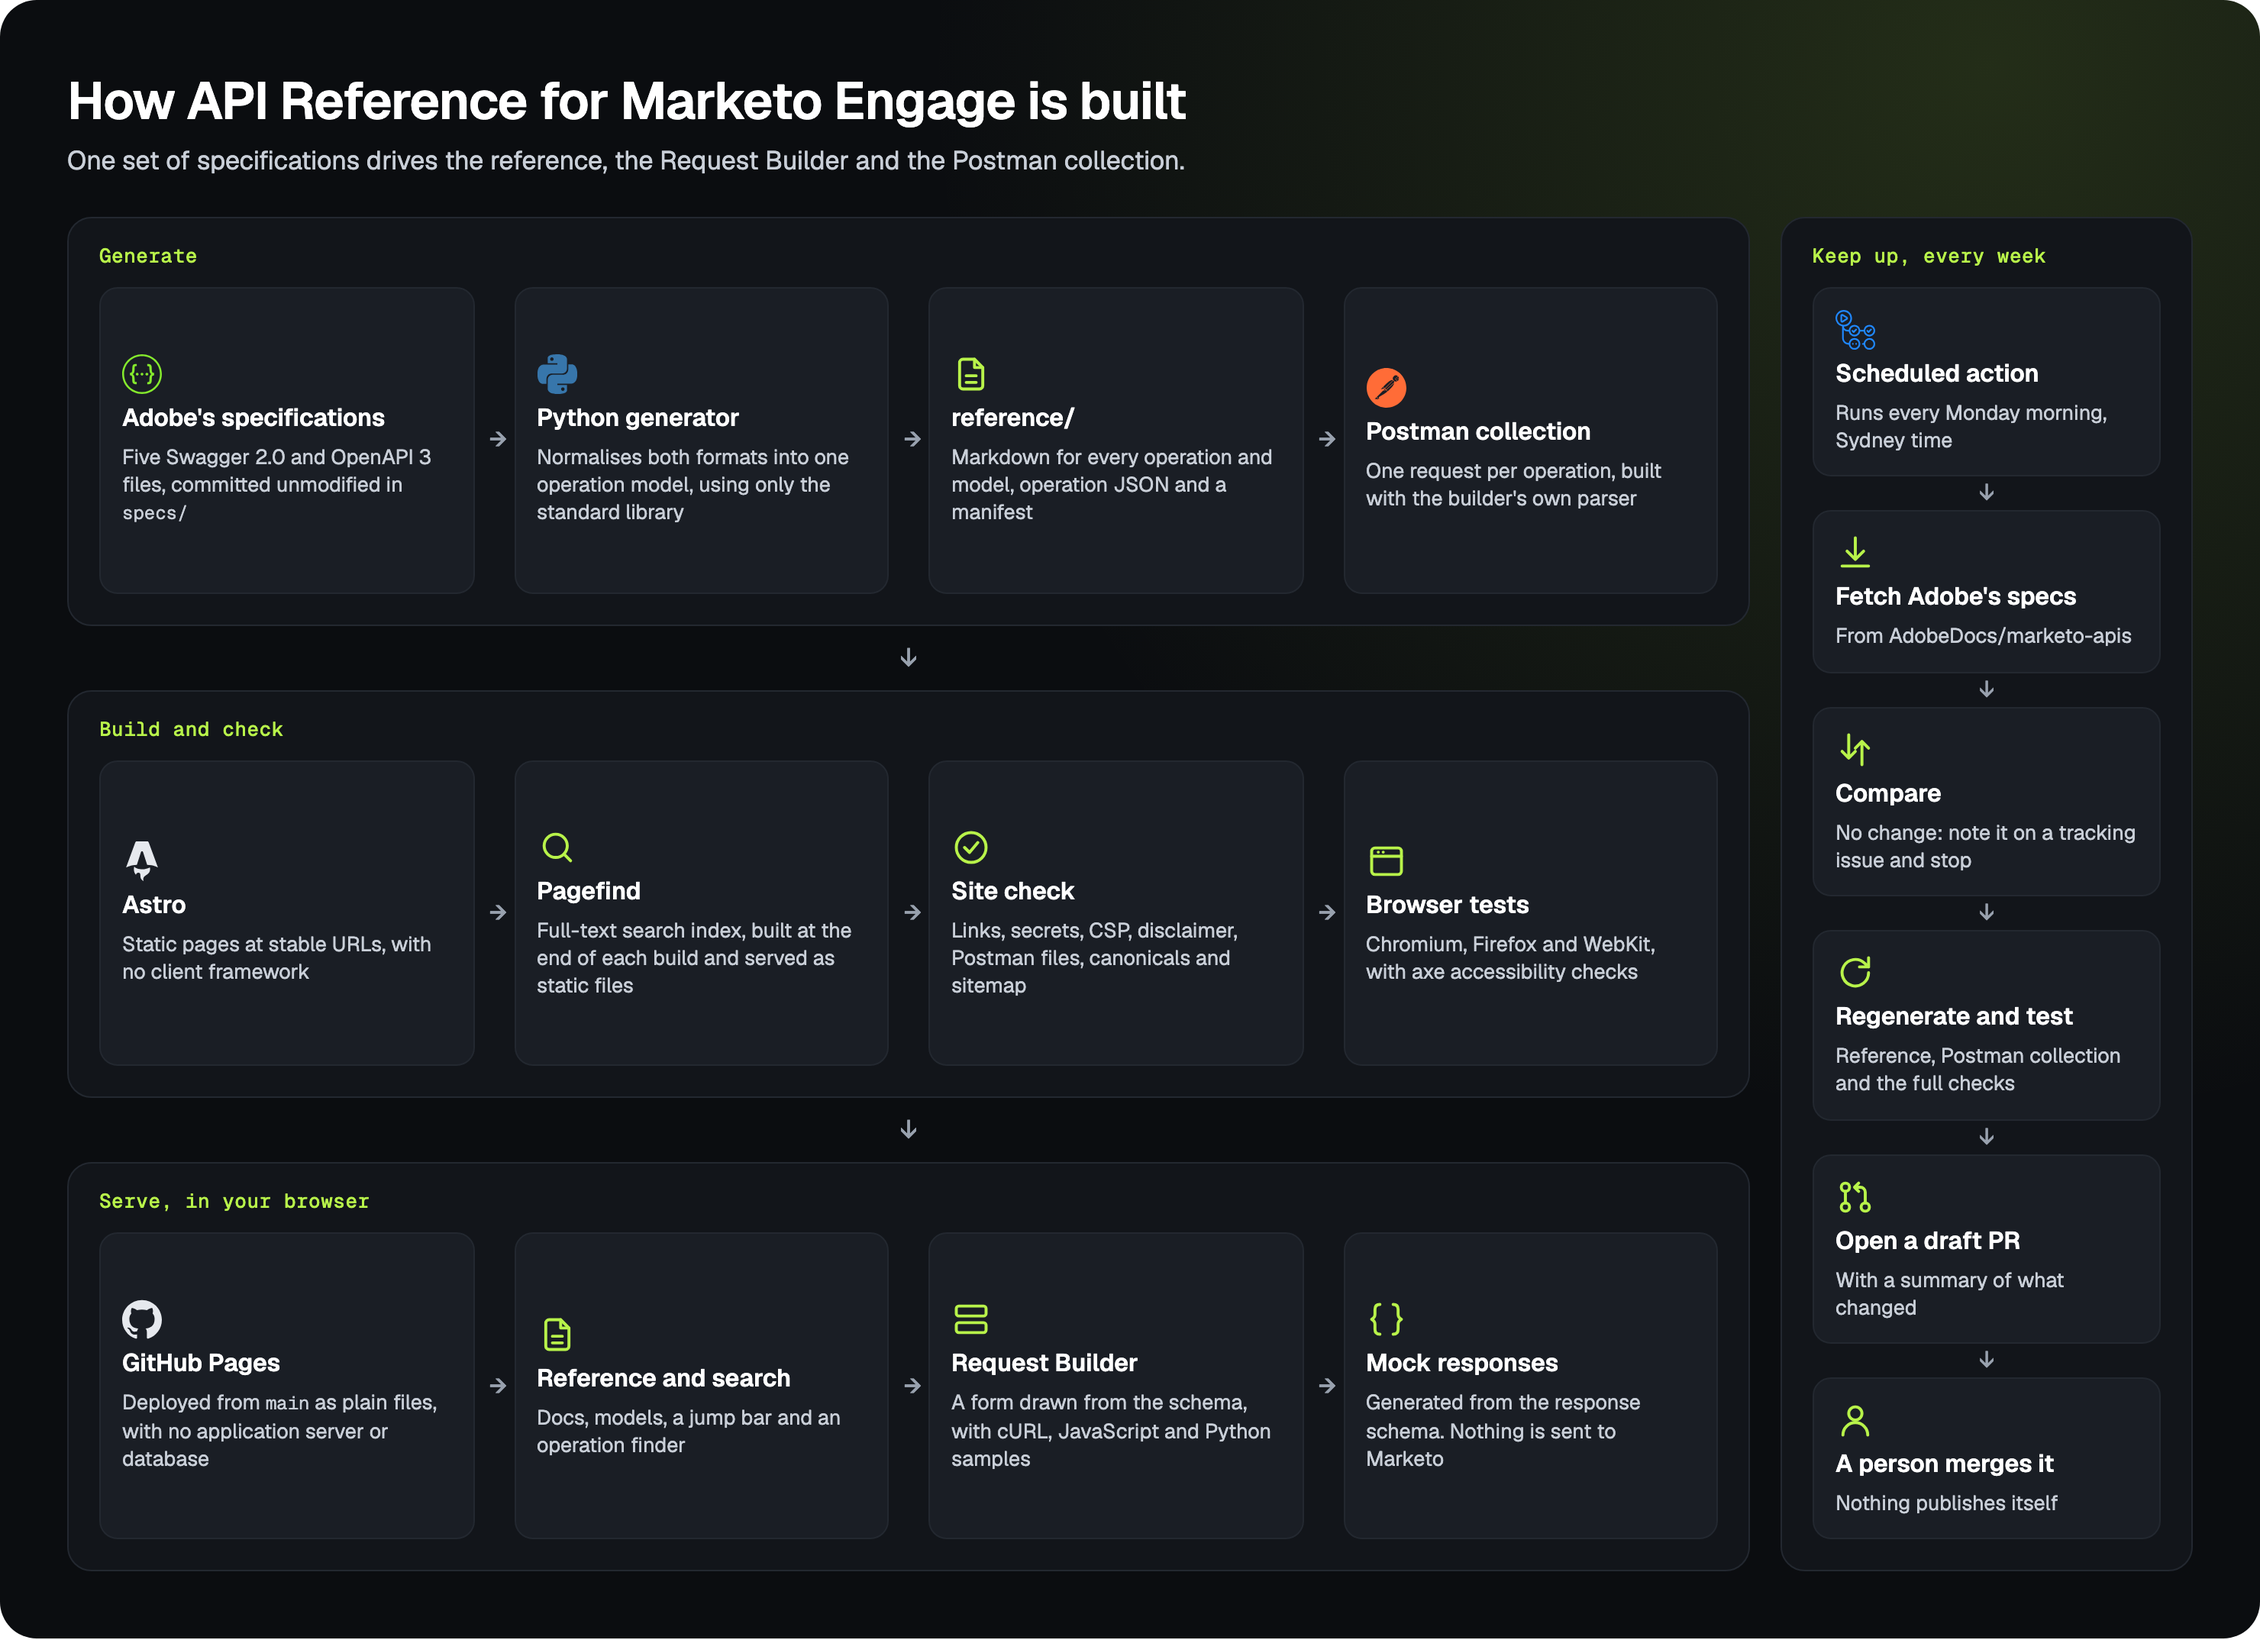
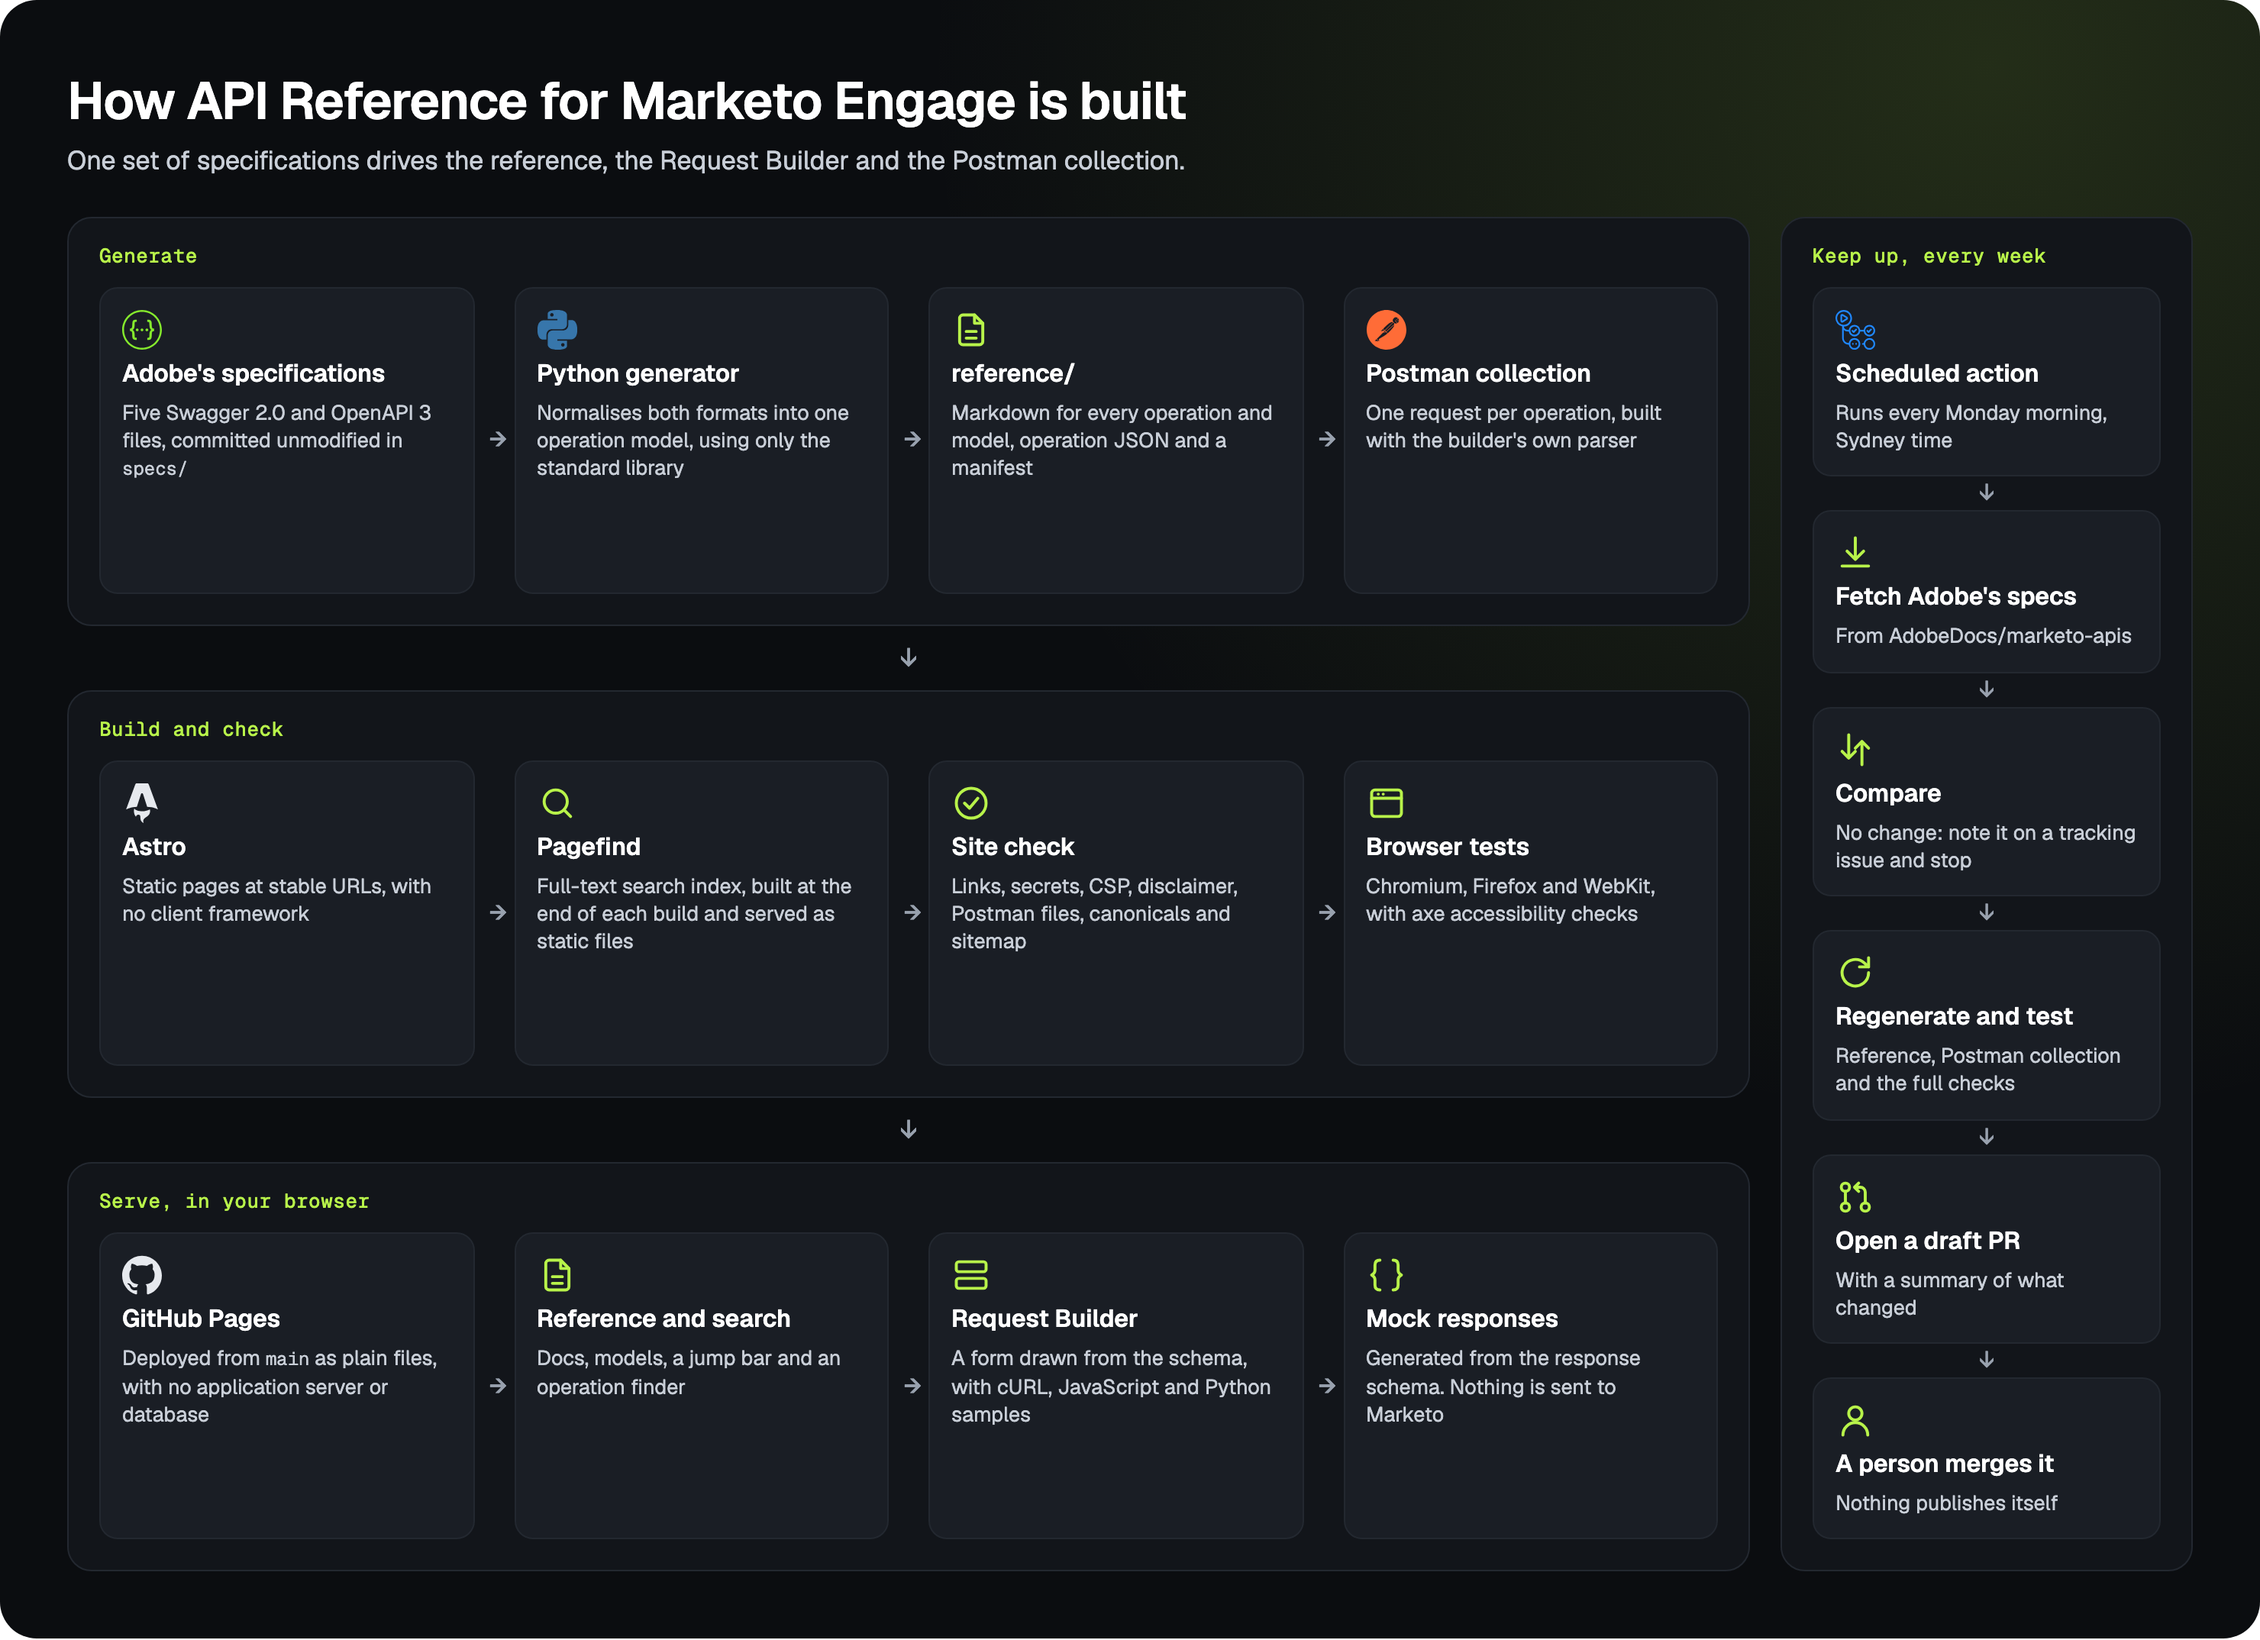
Fix how mock responses and search excerpts render
The JSON highlighter's punctuation class collided with the parameter row
class, which put every token in a mock response on its own ruled line.
Its classes now have their own prefix, and a browser test checks the
response reads as ordinary JSON.

Search excerpts are now parsed in an inert document instead of with a
regular expression and innerHTML, which clears a code scanning alert.

The README's images are redrawn, and the diagram's cards align at the top.

diff --git a/web/builder/highlight.js b/web/builder/highlight.js
@@ -1,6 +1,6 @@
 /**
- * Minimal JSON syntax highlighting. Produces escaped HTML using the token
- * classes Pygments emits, so Material's light and dark code colours apply.
+ * Minimal JSON syntax highlighting. Produces escaped HTML with token classes
+ * prefixed so they can't collide with the site's own.
  */
 
 const TOKEN = /("(?:\\.|[^"\\])*")(\s*:)?|\b(true|false)\b|\b(null)\b|(-?\d+(?:\.\d+)?(?:[eE][+-]?\d+)?)|([{}[\],:])/g;
@@ -21,14 +21,14 @@ export function highlightJson(text) {
     const [token, string, colon, boolean, nullValue, number, punctuation] = match;
     if (string !== undefined) {
       html += colon
-        ? `<span class="nt">${escapeHtml(string)}</span><span class="p">${escapeHtml(colon)}</span>`
-        : `<span class="s2">${escapeHtml(string)}</span>`;
+        ? `<span class="rb-t-key">${escapeHtml(string)}</span><span class="rb-t-mark">${escapeHtml(colon)}</span>`
+        : `<span class="rb-t-string">${escapeHtml(string)}</span>`;
     } else if (boolean !== undefined || nullValue !== undefined) {
-      html += `<span class="kc">${token}</span>`;
+      html += `<span class="rb-t-literal">${token}</span>`;
     } else if (number !== undefined) {
-      html += `<span class="mi">${token}</span>`;
+      html += `<span class="rb-t-literal">${token}</span>`;
     } else if (punctuation !== undefined) {
-      html += `<span class="p">${escapeHtml(token)}</span>`;
+      html += `<span class="rb-t-mark">${escapeHtml(token)}</span>`;
     }
     last = match.index + token.length;
   }

diff --git a/web/tests/e2e/builder.spec.js b/web/tests/e2e/builder.spec.js
@@ -20,6 +20,20 @@ test("nothing is sent anywhere but this site", async ({ page, baseURL }) => {
   expect(elsewhere).toEqual([]);
 });
 
+test("a mock response reads as ordinary JSON", async ({ page }) => {
+  await page.goto("/reference/core/leads/get-lead-by-id/");
+  await page.locator('[name="path:leadId"]').fill("54321");
+  await page.getByRole("tab", { name: "Mock response" }).click();
+  const body = page.locator(".rb-mock__body");
+  await expect(body).toContainText('"success"');
+  const blocks = await body.locator("span").evaluateAll((spans) => spans.filter((span) => getComputedStyle(span).display !== "inline").length);
+  expect(blocks).toBe(0);
+  const lines = await body.evaluate((node) => node.textContent.split("\n").length);
+  const lineHeight = await body.evaluate((node) => parseFloat(getComputedStyle(node).lineHeight));
+  const height = await body.locator("code").evaluate((node) => node.getBoundingClientRect().height);
+  expect(height).toBeLessThanOrEqual(lines * lineHeight + 2);
+});
+
 test("it never asks for credentials", async ({ page }) => {
   await page.goto(LEADS);
   await expect(page.locator(".rb__mode")).toHaveText("Mock mode");

diff --git a/web/src/scripts/search.js b/web/src/scripts/search.js
@@ -34,15 +34,18 @@ function updateUrl() {
   history.replaceState(null, "", url);
 }
 
-/** Pagefind excerpts contain only <mark>; everything else is rebuilt as text. */
+/** Pagefind excerpts contain only <mark>. Parsed in an inert document and rebuilt as text. */
 function excerptNodes(excerpt) {
   const fragment = document.createDocumentFragment();
-  const decode = document.createElement("textarea");
-  excerpt.split(/(<mark>.*?<\/mark>)/).forEach((part) => {
-    const match = part.match(/^<mark>(.*)<\/mark>$/);
-    decode.innerHTML = (match ? match[1] : part).replace(/<[^>]+>/g, "");
-    if (match) { const mark = document.createElement("mark"); mark.textContent = decode.value; fragment.append(mark); } else fragment.append(decode.value);
-  });
+  for (const node of new DOMParser().parseFromString(excerpt, "text/html").body.childNodes) {
+    if (node.nodeName !== "MARK") {
+      fragment.append(node.textContent);
+      continue;
+    }
+    const mark = document.createElement("mark");
+    mark.textContent = node.textContent;
+    fragment.append(mark);
+  }
   return fragment;
 }
 

diff --git a/web/tests/builder/mock.test.js b/web/tests/builder/mock.test.js
@@ -167,10 +167,10 @@ describe("highlightJson", () => {
   it("escapes HTML and tags tokens", () => {
     const html = highlightJson(JSON.stringify({ "<k>": "<script>", n: 1, ok: true, none: null }));
     assert.ok(!html.includes("<script>"));
-    assert.ok(html.includes('<span class="nt">&quot;&lt;k&gt;&quot;</span>'));
-    assert.ok(html.includes('<span class="s2">&quot;&lt;script&gt;&quot;</span>'));
-    assert.ok(html.includes('<span class="mi">1</span>'));
-    assert.ok(html.includes('<span class="kc">true</span>'));
-    assert.ok(html.includes('<span class="kc">null</span>'));
+    assert.ok(html.includes('<span class="rb-t-key">&quot;&lt;k&gt;&quot;</span>'));
+    assert.ok(html.includes('<span class="rb-t-string">&quot;&lt;script&gt;&quot;</span>'));
+    assert.ok(html.includes('<span class="rb-t-literal">1</span>'));
+    assert.ok(html.includes('<span class="rb-t-literal">true</span>'));
+    assert.ok(html.includes('<span class="rb-t-literal">null</span>'));
   });
 });

diff --git a/web/src/styles/site.css b/web/src/styles/site.css
@@ -357,7 +357,7 @@ select.in, select.rb-input { appearance: none; padding-right: 36px; background-r
 .rb-mock__label, .rb-mock__meta { font-size: 12px; color: var(--muted); }
 .rb-status { font: 500 12px var(--mono); }
 .rb-status--2 { color: var(--accent); } .rb-status--4, .rb-status--5 { color: var(--amber); }
-.nt { color: var(--amber); } .s2 { color: var(--amber); } .kc, .mi { color: var(--accent); }
+.rb-t-key, .rb-t-string { color: var(--amber); } .rb-t-literal { color: var(--accent); }
 .rb-visually-hidden { position: absolute; width: 1px; height: 1px; overflow: hidden; clip-path: inset(50%); }
 .example .b-head { padding: 10px 16px; border-bottom: 1px solid var(--line); }
 .example .b-head h2 { font-size: 14px; }

diff --git a/web/tests/e2e/search.spec.js b/web/tests/e2e/search.spec.js
@@ -13,6 +13,8 @@ test("the jump bar finds an operation by path", async ({ page }) => {
 test("full-text search returns results", async ({ page }) => {
   await page.goto("/search/?q=filterValues");
   await expect(page.locator("main")).toContainText(/filterValues/i);
+  await expect(page.locator(".res-x mark").first()).toBeVisible();
+  await expect(page.locator(".res-x script")).toHaveCount(0);
 });
 
 test("the operation finder narrows the list", async ({ page }) => {
